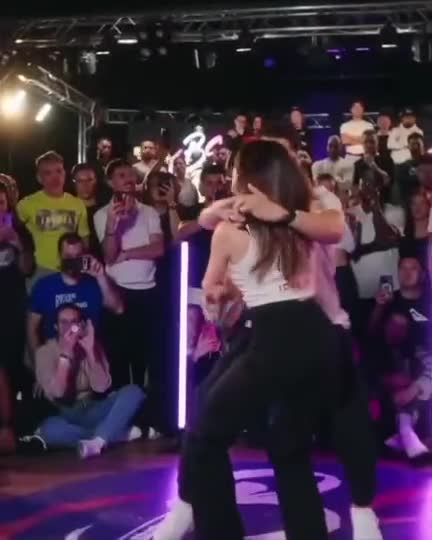
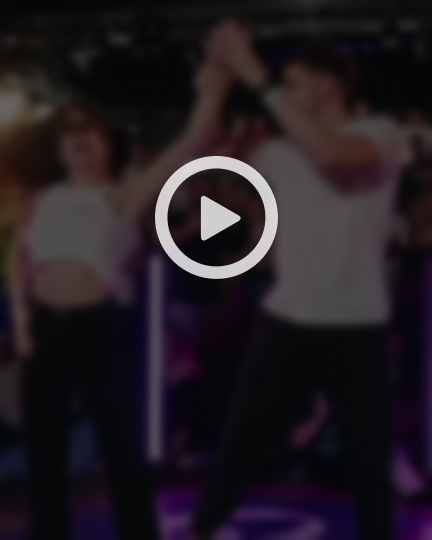
Try handling taps to resume autoplay on iOS

diff --git a/static/js/custom.js b/static/js/custom.js
@@ -9,10 +9,10 @@
   if (artistsRow) {
     const observer = new IntersectionObserver((entries, observer) => {
       entries.forEach((entry) => {
-        if (entry.intersectionRatio === 0) {
-          entry.target.querySelector('video')?.pause();
-        } else {
+        if (entry.isIntersecting) {
           entry.target.querySelector('video')?.play();
+        } else {
+          entry.target.querySelector('video')?.pause();
         }
   
         if (entry.intersectionRatio === 1.0) {
@@ -30,7 +30,13 @@
         1.0,
       ],
     });
-  
-    document.querySelectorAll('.artists-thumb').forEach(e => observer.observe(e));
+
+    artistsRow.querySelectorAll('.artists-thumb').forEach(thumb => {
+      observer.observe(thumb);
+
+      const video = thumb.querySelector('video');
+      video?.addEventListener('mouseup', () => video.play());
+      video?.addEventListener('touchend', () => video.play());
+    });
   }
 })(window.jQuery);
